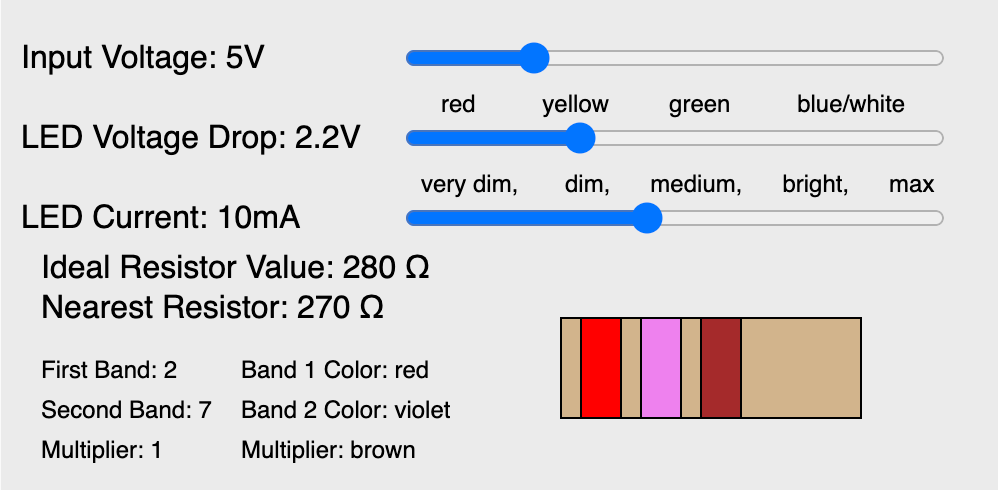
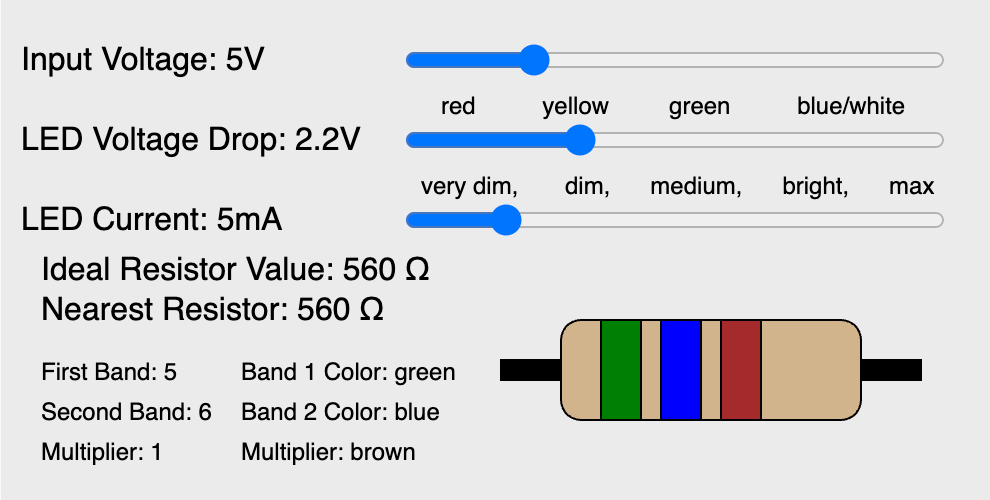
updating content

diff --git a/docs/sims/led-resistor-calc/led-resistor-calc.js b/docs/sims/led-resistor-calc/led-resistor-calc.js
@@ -106,7 +106,8 @@ function ensureIndexInRange(index, array) {
 function drawResistor(x, y, w, h, bands) {
   // Draw the resistor body
   fill("tan");
-  rect(x, y, w, h);
+  // 4th parameter is round corners
+  rect(x, y, w, h, 15);
 
   // Draw the bands
   for (let i = 0; i < bands.length; i++) {

diff --git a/docs/sims/led-resistor-calc/index.md b/docs/sims/led-resistor-calc/index.md
@@ -1,6 +1,6 @@
 # LED Resistor Calculator
 
-![LED Resistor Calculator](./led-resistor-calc.png){ width="400" }
+![LED Resistor Calculator](./led-resistor-calc.png){ width="400"}
 
 [Run the LED Resistor Calculator MicroSim](./led-resistor-calc.html){ .md-button .md-button--primary }
 [Edit this MicroSim](https://editor.p5js.org/dmccreary/sketches/IoMwFBIi2)
